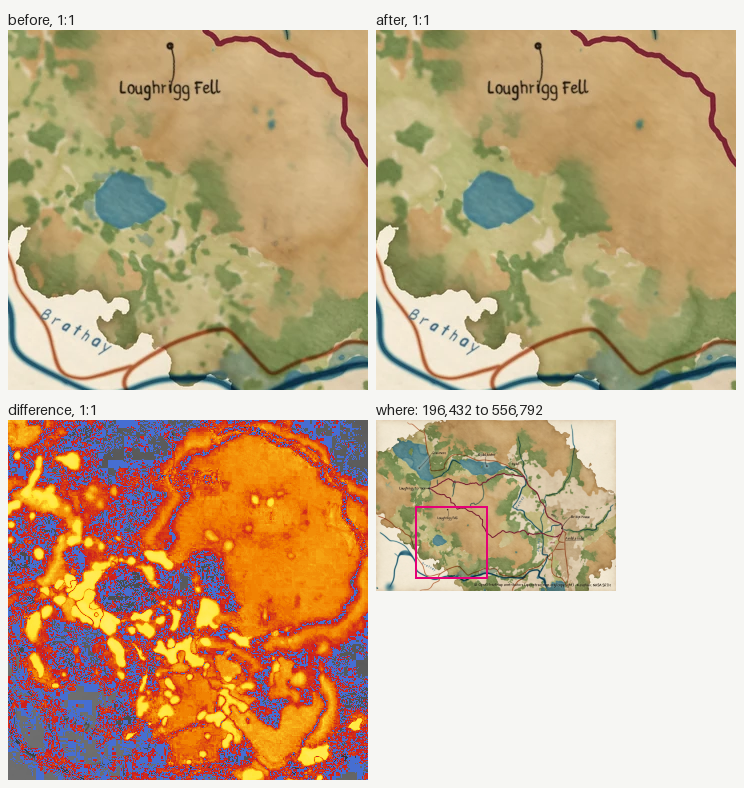
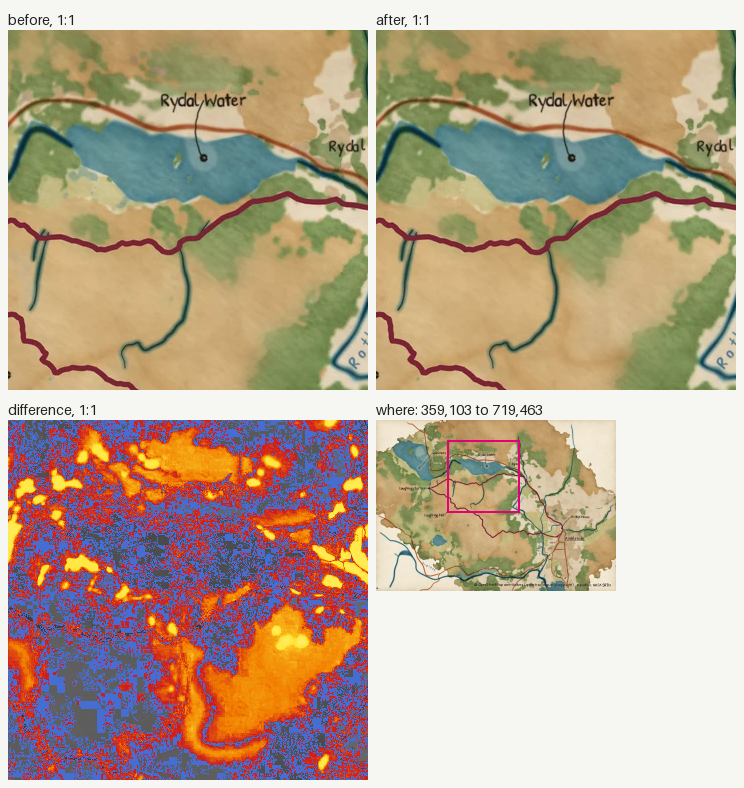
Review images for fix/46-cover-speckle

diff --git a/fix/46-cover-speckle/summary.md b/fix/46-cover-speckle/summary.md
@@ -1,47 +1,47 @@
 ### Image changes
 
-Before: `/tmp/claude-0/-home-user-pyntpot/1d79c270-6236-5bf4-82b6-e519237905dd/scratchpad/g46/before`. After: `/tmp/claude-0/-home-user-pyntpot/1d79c270-6236-5bf4-82b6-e519237905dd/scratchpad/g46/after`. 4 changed, 0 added, 0 removed.
+Before: `origin/main`. After: `working tree`. 4 changed, 0 added, 0 removed.
 Changed counts the pixels past channel delta 2; the parity gate bounds it at 0.005 (ADR 0030). Local: the box covers at most a quarter of the image.
 
 | File | Size | Changed | Max delta | Box | Extent |
 |---|---|---|---|---|---|
-| `docs/images/hero.webp` | 1200x854 | 0.389120 (over 0.005) | 95 | 0,0 to 1200,854 | widespread |
-| `docs/images/social-preview.jpg` | 1280x640 | 0.272316 (over 0.005) | 93 | 0,0 to 1280,640 | widespread |
-| `tests/golden/docs/hero.png` | 240x171 | 0.235453 (over 0.005) | 92 | 0,0 to 240,171 | widespread |
-| `tests/golden/docs/social-preview.png` | 240x120 | 0.204687 (over 0.005) | 97 | 0,0 to 240,120 | widespread |
+| `docs/images/hero.webp` | 1200x854 | 0.345875 (over 0.005) | 91 | 0,0 to 1200,854 | widespread |
+| `docs/images/social-preview.jpg` | 1280x640 | 0.202948 (over 0.005) | 95 | 0,0 to 1280,640 | widespread |
+| `tests/golden/docs/hero.png` | 240x171 | 0.181189 (over 0.005) | 97 | 0,0 to 240,171 | widespread |
+| `tests/golden/docs/social-preview.png` | 240x120 | 0.135451 (over 0.005) | 96 | 0,0 to 240,120 | widespread |
 
 <details open>
-<summary><code>docs/images/hero.webp</code>: widespread, 0.389120</summary>
+<summary><code>docs/images/hero.webp</code>: widespread, 0.345875</summary>
 
-![docs/images/hero.webp: before, after and difference](docs/images/hero.webp.diff.png)
+<img src="docs/images/hero.webp.diff.png" alt="docs/images/hero.webp: before, after and difference" width="720">
 
-![docs/images/hero.webp: the most-changed region at 1:1](docs/images/hero.webp.crop.png)
+<img src="docs/images/hero.webp.crop.png" alt="docs/images/hero.webp: the most-changed region at 1:1">
 
 </details>
 
 <details open>
-<summary><code>docs/images/social-preview.jpg</code>: widespread, 0.272316</summary>
+<summary><code>docs/images/social-preview.jpg</code>: widespread, 0.202948</summary>
 
-![docs/images/social-preview.jpg: before, after and difference](docs/images/social-preview.jpg.diff.png)
+<img src="docs/images/social-preview.jpg.diff.png" alt="docs/images/social-preview.jpg: before, after and difference" width="720">
 
-![docs/images/social-preview.jpg: the most-changed region at 1:1](docs/images/social-preview.jpg.crop.png)
-
-</details>
-
-<details open>
-<summary><code>tests/golden/docs/hero.png</code>: widespread, 0.235453</summary>
-
-![tests/golden/docs/hero.png: before, after and difference](tests/golden/docs/hero.png.diff.png)
-
-![tests/golden/docs/hero.png: the most-changed region at 1:1](tests/golden/docs/hero.png.crop.png)
+<img src="docs/images/social-preview.jpg.crop.png" alt="docs/images/social-preview.jpg: the most-changed region at 1:1">
 
 </details>
 
 <details open>
-<summary><code>tests/golden/docs/social-preview.png</code>: widespread, 0.204687</summary>
+<summary><code>tests/golden/docs/hero.png</code>: widespread, 0.181189</summary>
 
-![tests/golden/docs/social-preview.png: before, after and difference](tests/golden/docs/social-preview.png.diff.png)
+<img src="tests/golden/docs/hero.png.diff.png" alt="tests/golden/docs/hero.png: before, after and difference" width="720">
 
-![tests/golden/docs/social-preview.png: the most-changed region at 1:1](tests/golden/docs/social-preview.png.crop.png)
+<img src="tests/golden/docs/hero.png.crop.png" alt="tests/golden/docs/hero.png: the most-changed region at 1:1">
+
+</details>
+
+<details open>
+<summary><code>tests/golden/docs/social-preview.png</code>: widespread, 0.135451</summary>
+
+<img src="tests/golden/docs/social-preview.png.diff.png" alt="tests/golden/docs/social-preview.png: before, after and difference" width="720">
+
+<img src="tests/golden/docs/social-preview.png.crop.png" alt="tests/golden/docs/social-preview.png: the most-changed region at 1:1">
 
 </details>
